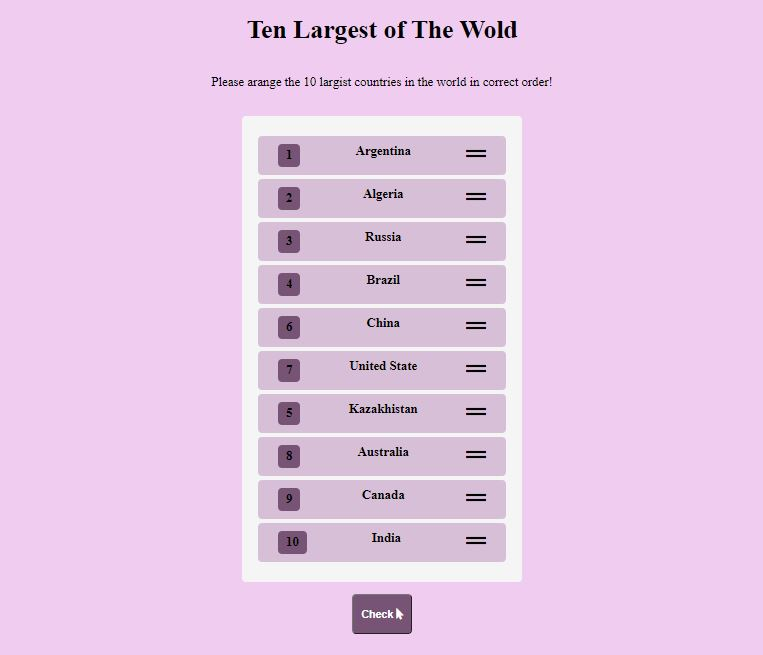
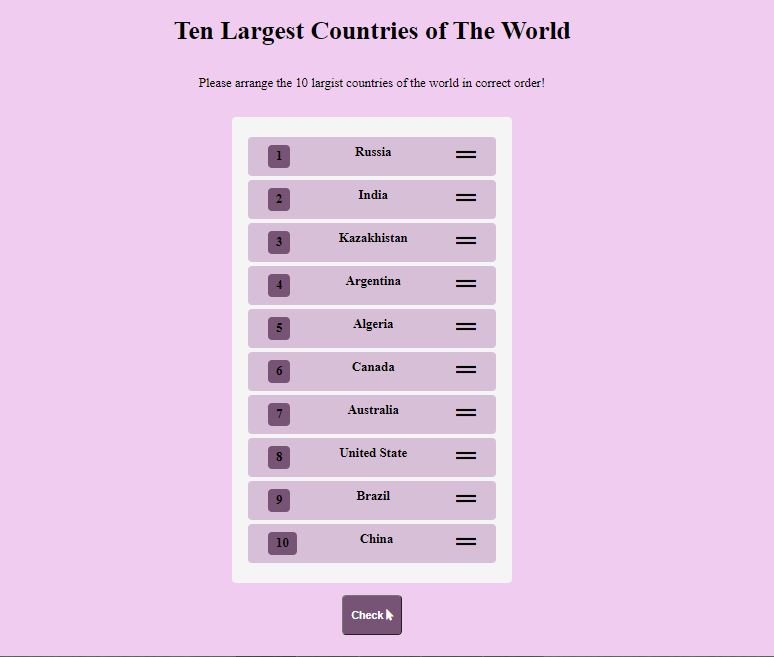
updated

diff --git a/P_17/index.html b/P_17/index.html
@@ -13,8 +13,8 @@
 </head>
 
 <body>
-    <h1>Ten Largest countries of The World</h1>
-    <p>Please arrange the 10 largist countries in the world in correct order!</p>
+    <h1>Ten Largest Countries of The World</h1>
+    <p>Please arrange the 10 largist countries of the world in correct order!</p>
 
     <ul class="dragbox" id="list"></ul> 
 
